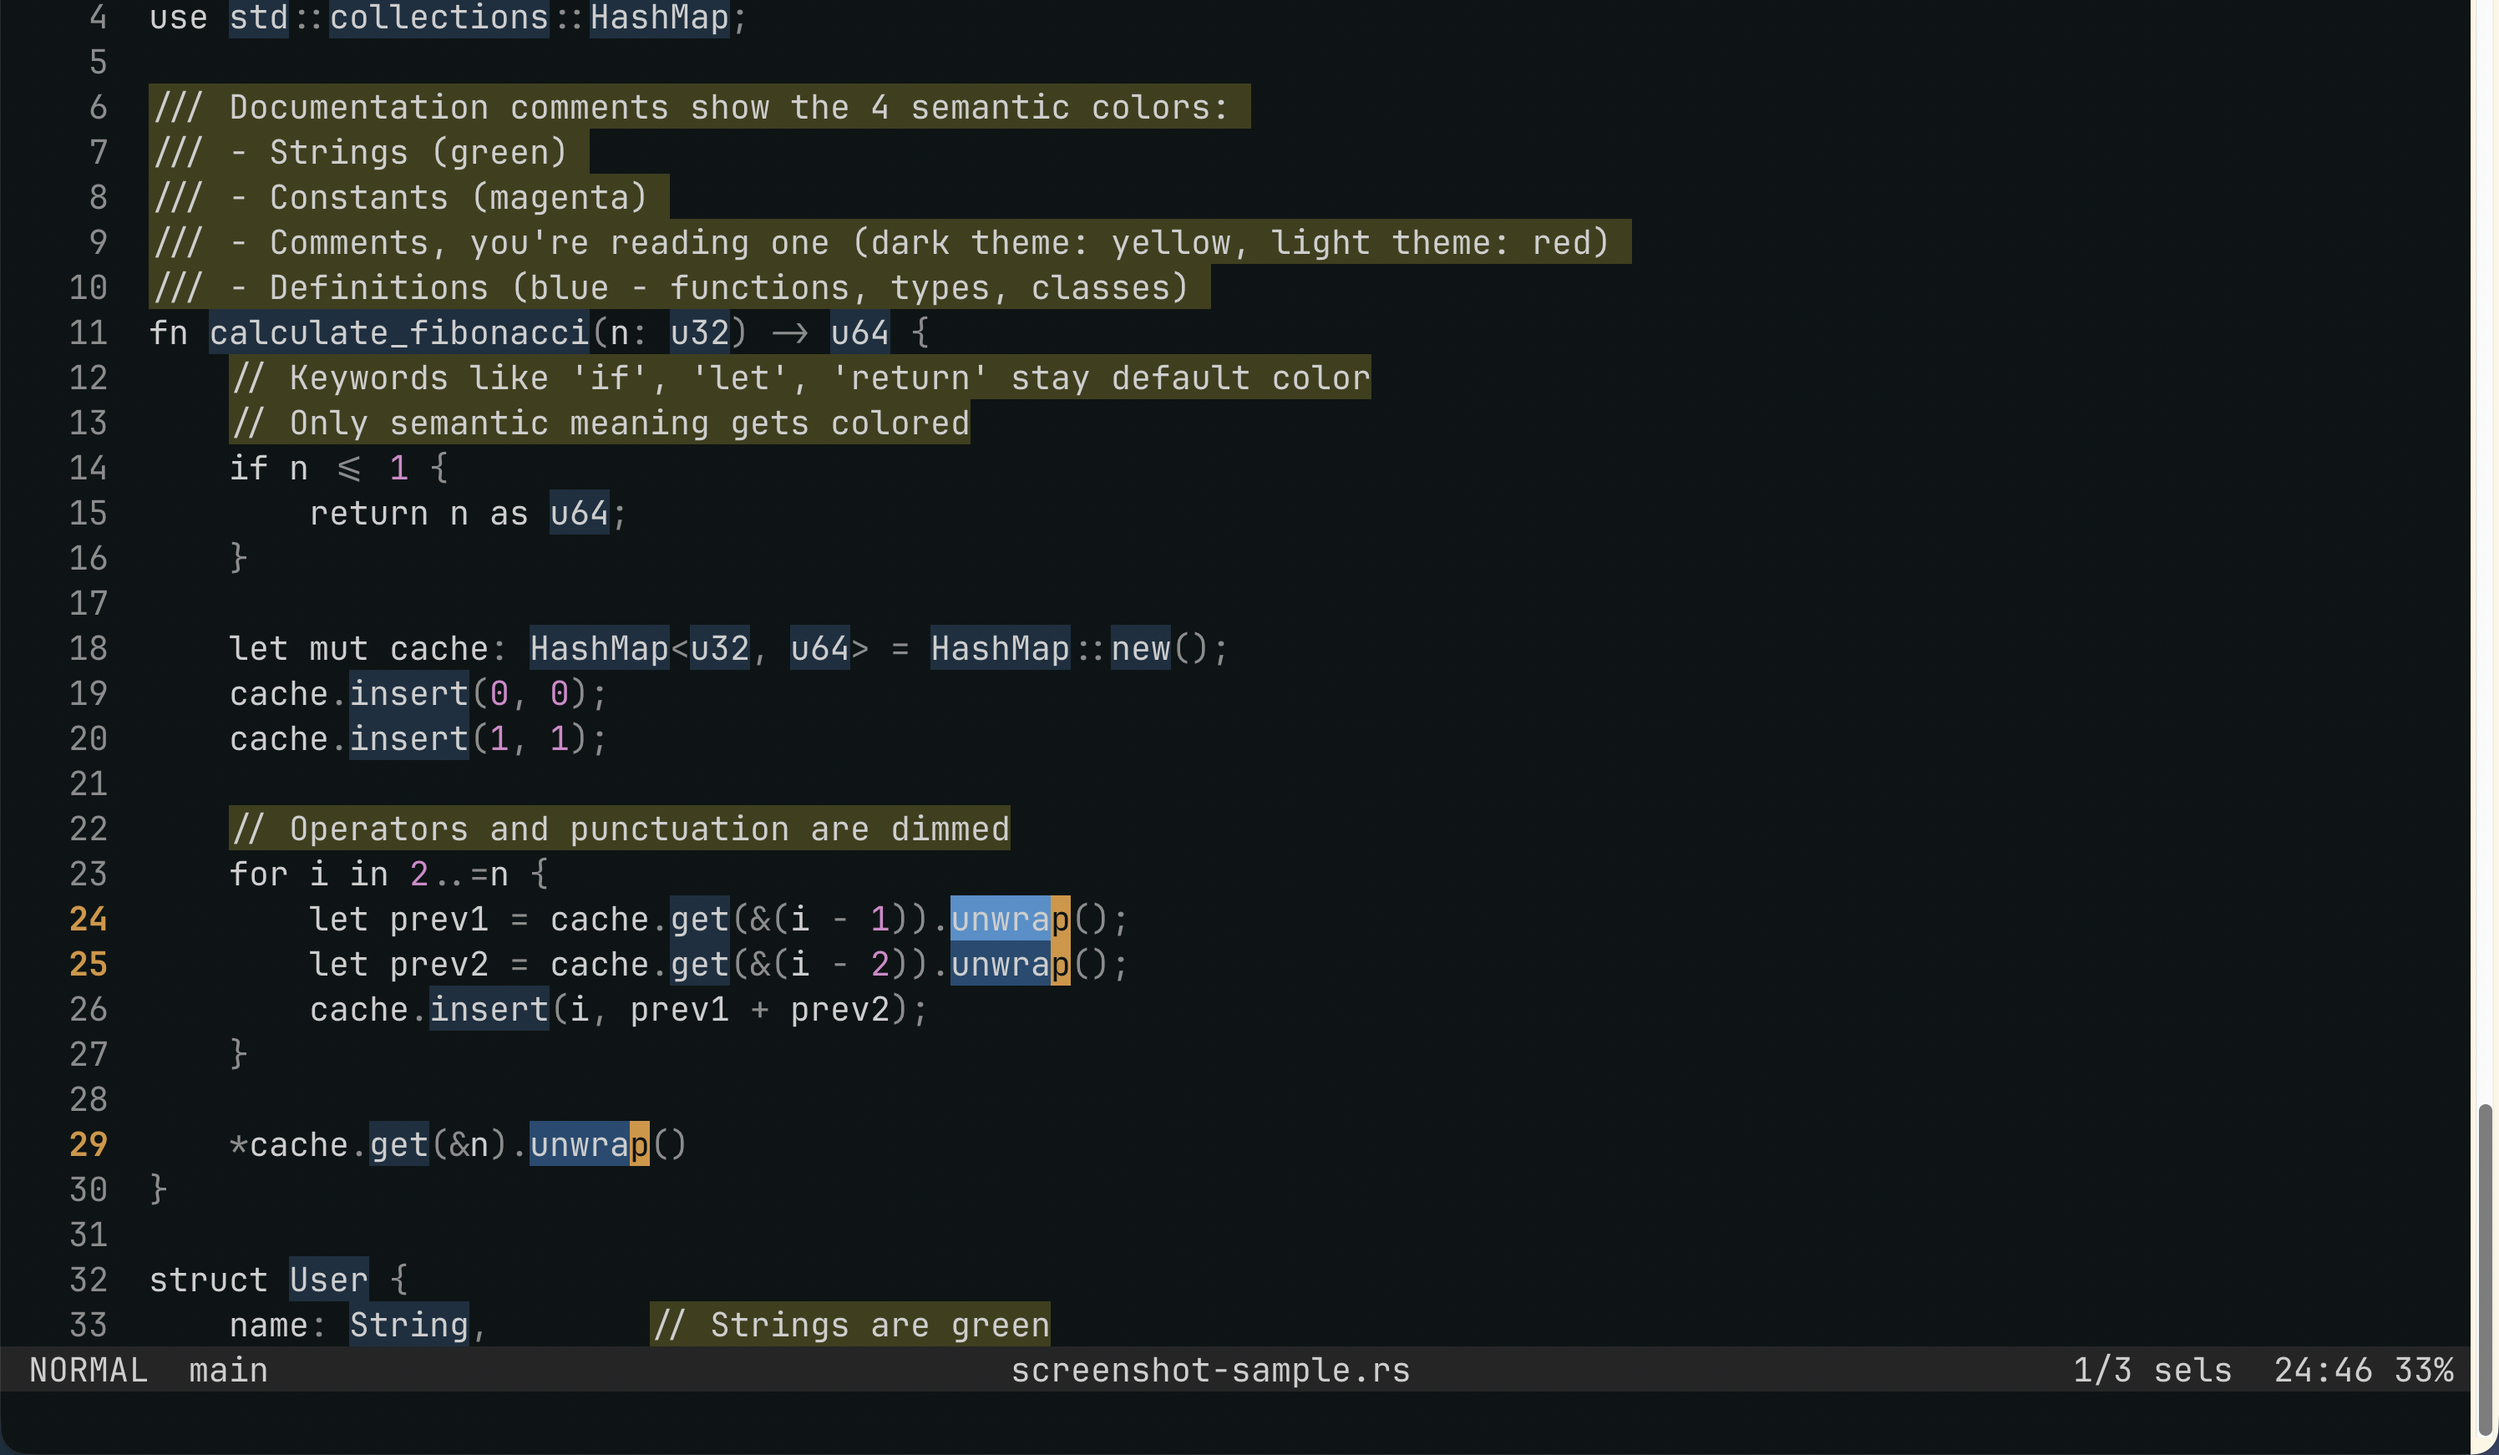
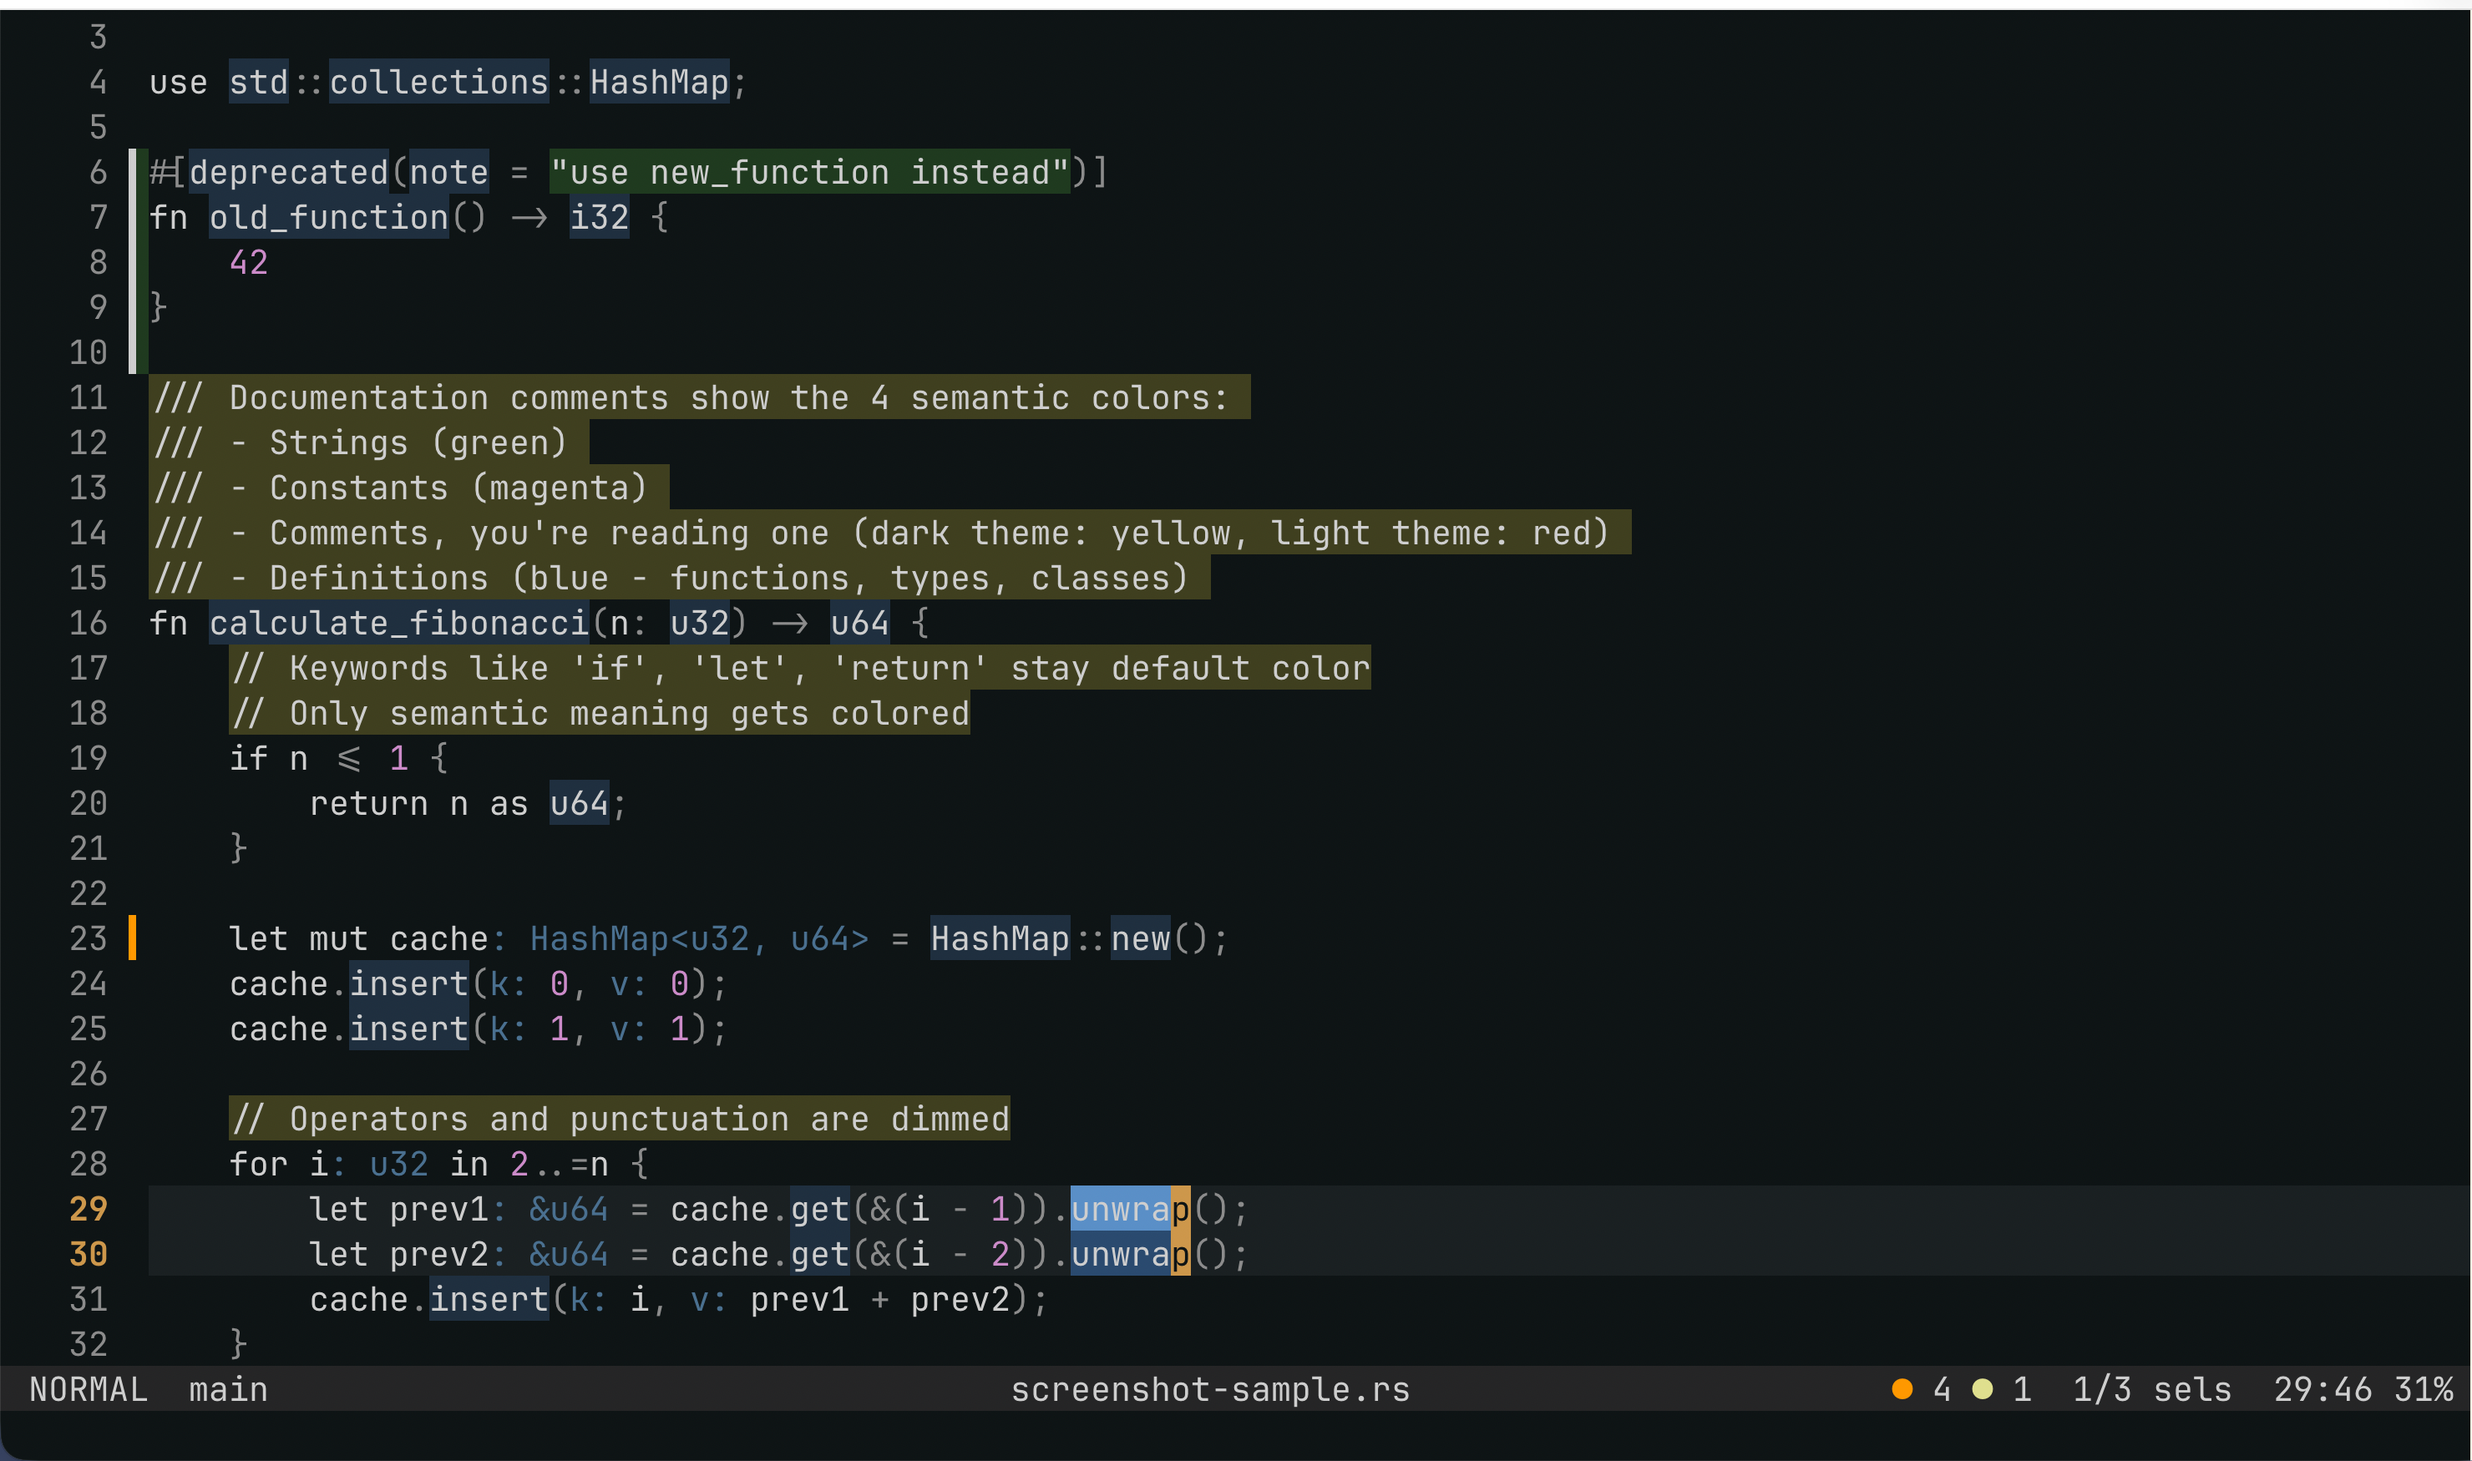
Add missing UI scopes for inlay hints and other virtual text
Addresses feedback from Ricardo Fernández Serrata (@Rudxain) on
helix-editor/helix#15102:
https://github.com/helix-editor/helix/pull/15102#issuecomment-3765948915

Added scopes:
- ui.virtual.inlay-hint: dimmed blue (matches type color but muted)
- ui.cursorline, ui.cursorcolumn: subtle line highlighting
- ui.virtual.ruler: ruler column background
- ui.gutter: gutter background
- diagnostic.deprecated: crossed-out styling
- tag.error: error styling for malformed markup

Deliberately not styled (using defaults):
- ui.picker.header: Omicron uses bold+underlined, but I can be convinced

Also added Cargo.toml to enable rust-analyzer for the sample file.

Changed region(s): [[0.0, 0.0, 1.0, 1.0], [0.0, 0.992, 0.0311, 1.0]]

diff --git a/screenshot-sample.rs b/screenshot-sample.rs
@@ -3,6 +3,11 @@
 
 use std::collections::HashMap;
 
+#[deprecated(note = "use new_function instead")]
+fn old_function() -> i32 {
+    42
+}
+
 /// Documentation comments show the 4 semantic colors:
 /// - Strings (green)
 /// - Constants (magenta)
@@ -15,7 +20,7 @@ fn calculate_fibonacci(n: u32) -> u64 {
         return n as u64;
     }
 
-    let mut cache: HashMap<u32, u64> = HashMap::new();
+    let mut cache = HashMap::new();
     cache.insert(0, 0);
     cache.insert(1, 1);
 
@@ -30,7 +35,7 @@ fn calculate_fibonacci(n: u32) -> u64 {
 }
 
 struct User {
-    name: String,        // Strings are green
+    name: String,        // Field names are plain
     age: u32,            // Types are blue
     active: bool,        // Builtin types are blue
 }
@@ -53,6 +58,10 @@ impl User {
     fn greet(&self) -> String {
         format!("Hello, {}! You are {} years old.", self.name, self.age)
     }
+
+    fn is_adult(&self) -> bool {
+        self.age >= 18
+    }
 }
 
 fn main() {
@@ -65,6 +74,19 @@ fn main() {
         println!("F({}) = {}", num, result);
     }
 
+    let data = vec![1, 2, 3, 4, 5];
+    let sum = data
+        .iter()
+        .filter(|x| *x % 2 == 0)
+        .map(|x| x * 2)
+        .sum::<i32>();
+    println!("Sum of doubled evens: {}", sum);
+
     let user = User::new("Alice".to_string(), 30);
-    println!("{}", user.greet());
+    let greeting = user.greet();
+    let adult = user.is_adult();
+    println!("{} (adult: {})", greeting, adult);
+
+    // Test deprecated function - should appear crossed out
+    let _old = old_function();
 }

diff --git a/README.md b/README.md
@@ -85,6 +85,7 @@ theme = "wolf-alabaster-dark-mono"
 
 - Based on [Alabaster](https://github.com/tonsky/sublime-scheme-alabaster) by Nikita Prokopov
 - Adapted for Helix by Wolf
+- Feedback on missing scopes from [@Rudxain](https://github.com/Rudxain) ([#15102](https://github.com/helix-editor/helix/pull/15102))
 
 ## License
 
